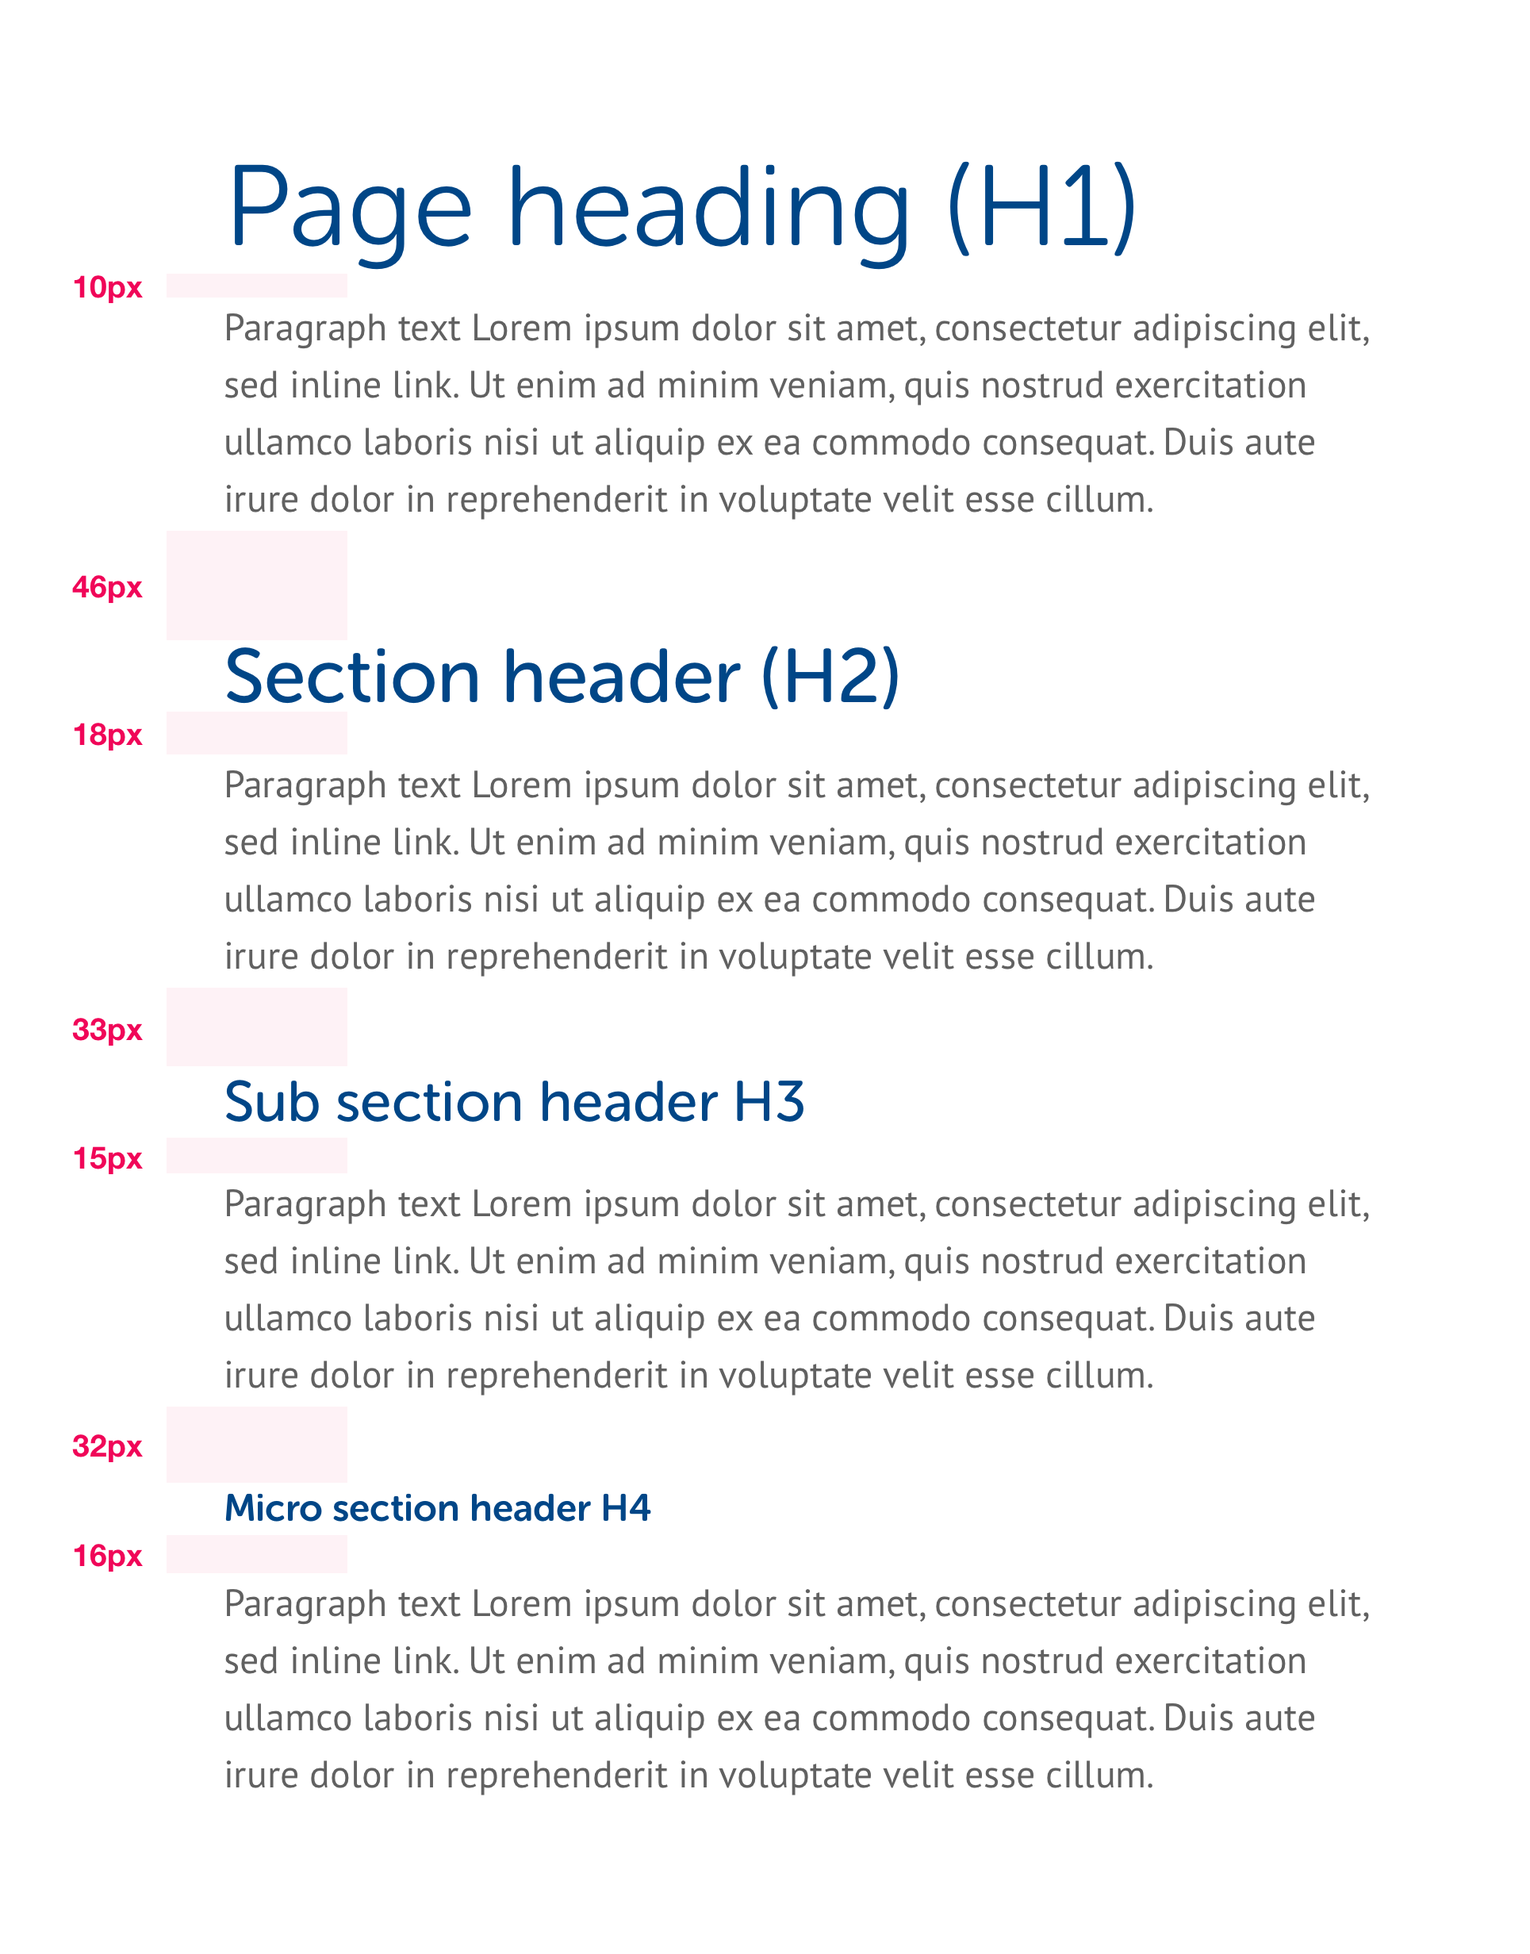
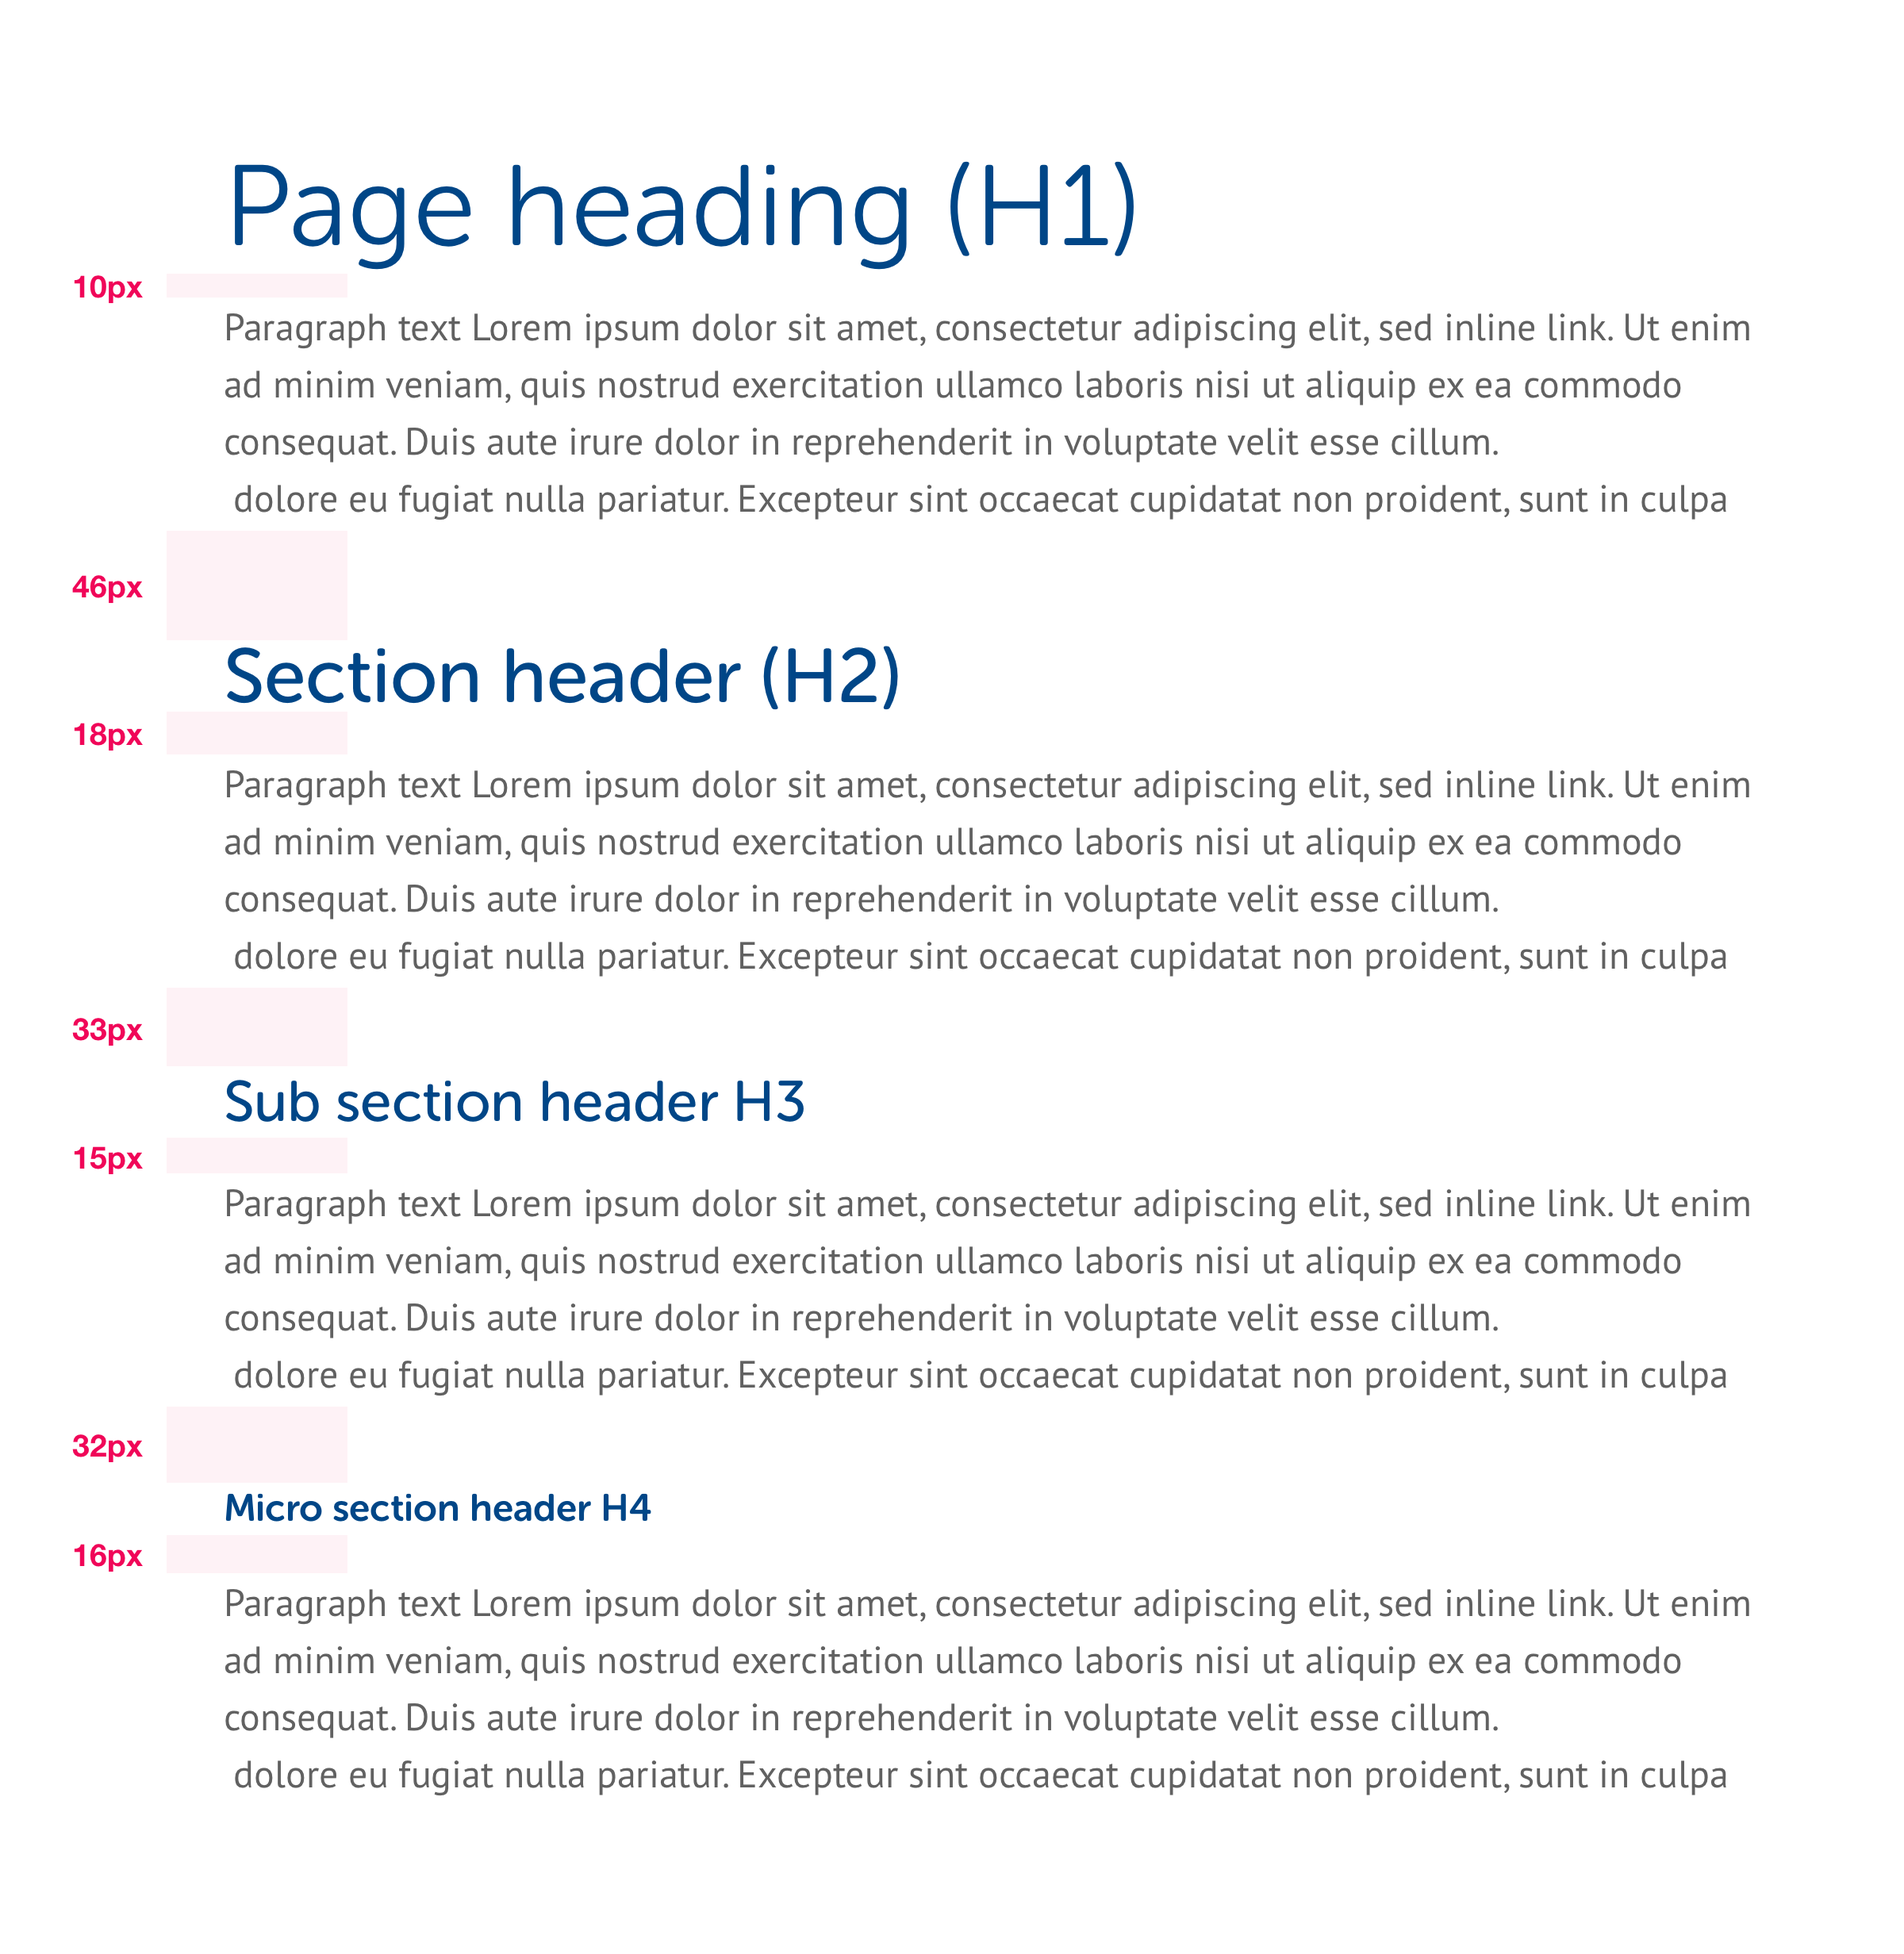
GitBook: [master] one page and 3 assets modified

diff --git a/foundations/typography/spacing.md b/foundations/typography/spacing.md
@@ -1,8 +1,14 @@
+---
+description: >-
+  Ensuring there is enough space around text allows the content to breathe and
+  aids readability.
+---
+
 # Spacing
 
 ## Headings & body copy
 
-We ensure there is 40px between the [baseline ↗](https://en.wikipedia.org/wiki/Baseline_%28typography%29) of headings and any subsequent body copy.
+We ensure there is 40px between the [baseline ↗](https://en.wikipedia.org/wiki/Baseline_%28typography%29) of headings and any subsequent body copy. Depending on the style used this leads to the spacing values shown below.
 
-![](../../.gitbook/assets/spacing%20%281%29.png)
+![](../../.gitbook/assets/spacing.png)
 
